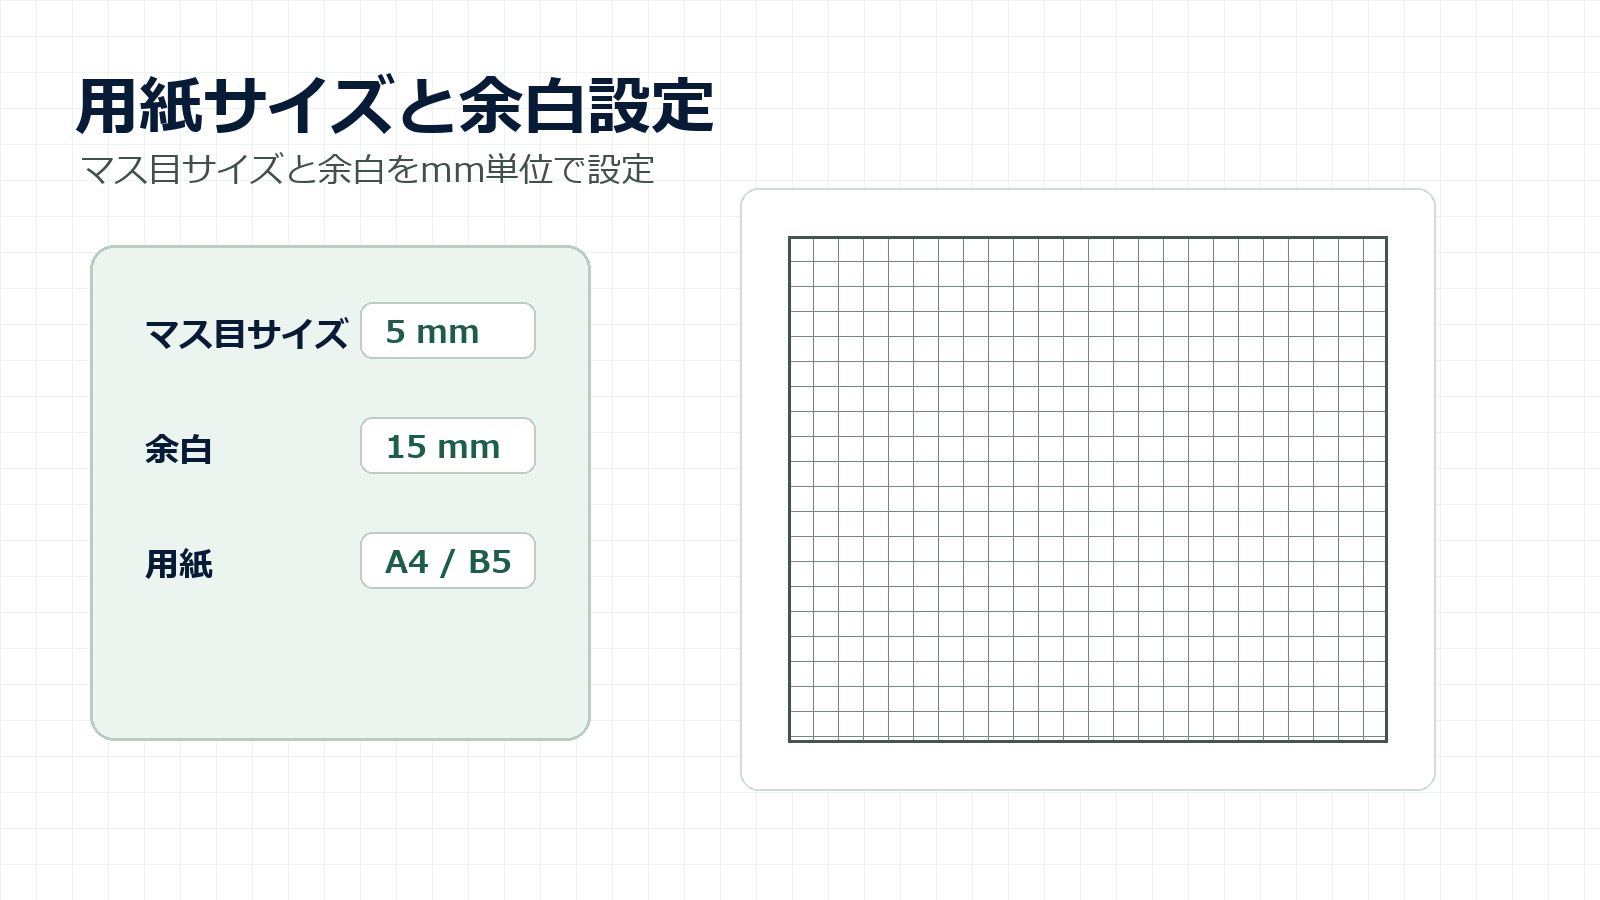
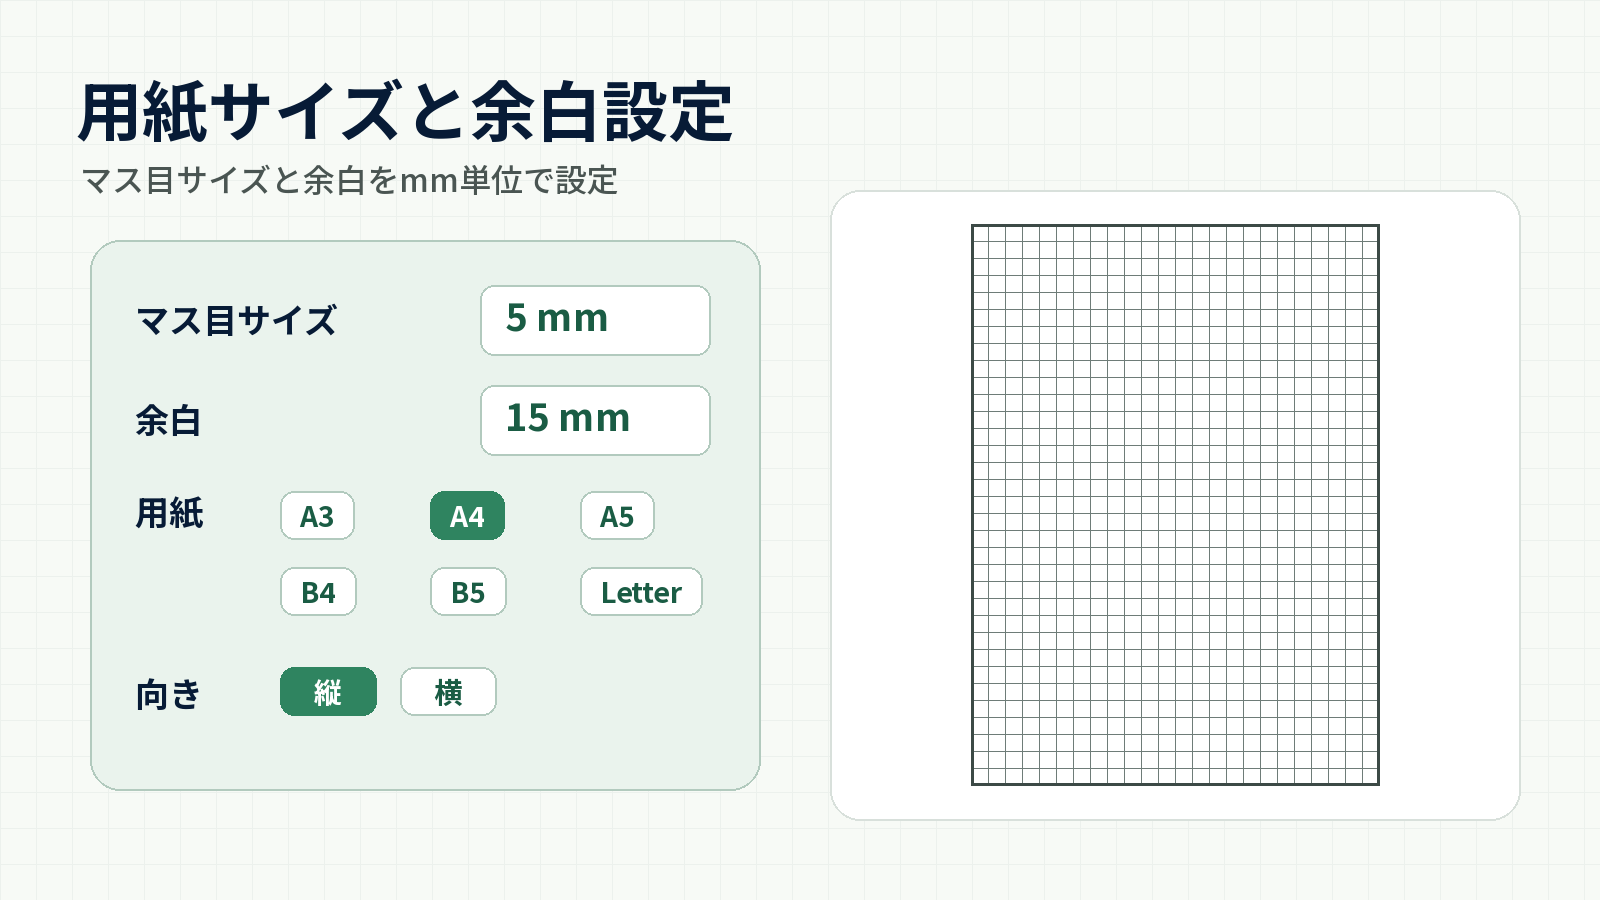
Keep GA4 tag in generated pages; refresh Graph Paper Maker images for v3.2.0
- Add tools/ga4_snippet.py and inject the GA4 tag from build_product_detail.py and
  build_products.py (regeneration used to drop it; /products/ had lost GA4 on 2026-09-29)
- Restore the GA4 tag on /products/
- Redraw houganshi images (hero, layout, line settings, card thumbnail) for the
  6 paper sizes, bold lines, center cross and axis numbers

diff --git a/products/index.html b/products/index.html
@@ -11,6 +11,46 @@
   <link href="https://fonts.googleapis.com/css2?family=Noto+Sans+JP:wght@400;600;700&family=Noto+Serif+JP:wght@400;700&display=swap" rel="stylesheet">
   <link rel="stylesheet" href="/assets/style.css?v=black-gold-20260613-featured">
   <link rel="stylesheet" href="/assets/css/audience-hubs.css?v=20260815-3">
+  <!-- Google tag (gtag.js) -->
+  <script async src="https://www.googletagmanager.com/gtag/js?id=G-KPGJ0R2KXR"></script>
+  <script>
+    (function() {
+      try {
+        var url = new URL(window.location.href);
+        var adminParam = url.searchParams.get('bantai_admin');
+        if (adminParam === 'true') {
+          localStorage.setItem('bantai_admin', 'true');
+        } else if (adminParam === 'clear') {
+          localStorage.removeItem('bantai_admin');
+        }
+
+        if (adminParam !== null) {
+          url.searchParams.delete('bantai_admin');
+          var cleanSearch = url.searchParams.toString();
+          var newUrl = url.pathname + (cleanSearch ? '?' + cleanSearch : '') + url.hash;
+          window.history.replaceState(null, '', newUrl);
+        }
+      } catch (e) {}
+
+      var isLocal = window.location.hostname === 'localhost' ||
+                    window.location.hostname === '127.0.0.1' ||
+                    window.location.protocol === 'file:';
+      var isExcluded = false;
+      try {
+        isExcluded = localStorage.getItem('bantai_admin') === 'true';
+      } catch (e) {}
+
+      if (isLocal || isExcluded) {
+        window['ga-disable-G-KPGJ0R2KXR'] = true;
+      }
+    })();
+
+    window.dataLayer = window.dataLayer || [];
+    function gtag(){dataLayer.push(arguments);}
+    gtag('js', new Date());
+    gtag('config', 'G-KPGJ0R2KXR');
+  </script>
+
   <script src="/assets/js/analytics-events.js" defer></script>
 </head>
 <body>

diff --git a/tools/ga4_snippet.py b/tools/ga4_snippet.py
@@ -1,0 +1,20 @@
+"""GA4 計測タグを、生成ページの <head> に必ず入れるためのヘルパー。
+
+テンプレート(templates/*.html)は audit_html_ga4.py の仕様で「GA4対象外」のため、
+タグはテンプレートではなく、生成スクリプトが出力直前に挿入する。
+(再生成のたびにタグが消える問題の再発防止)
+"""
+
+GA4_MARKER = "googletagmanager.com/gtag/js?id=G-KPGJ0R2KXR"
+
+GA4_SNIPPET = '  <!-- Google tag (gtag.js) -->\n  <script async src="https://www.googletagmanager.com/gtag/js?id=G-KPGJ0R2KXR"></script>\n  <script>\n    (function() {\n      try {\n        var url = new URL(window.location.href);\n        var adminParam = url.searchParams.get(\'bantai_admin\');\n        if (adminParam === \'true\') {\n          localStorage.setItem(\'bantai_admin\', \'true\');\n        } else if (adminParam === \'clear\') {\n          localStorage.removeItem(\'bantai_admin\');\n        }\n\n        if (adminParam !== null) {\n          url.searchParams.delete(\'bantai_admin\');\n          var cleanSearch = url.searchParams.toString();\n          var newUrl = url.pathname + (cleanSearch ? \'?\' + cleanSearch : \'\') + url.hash;\n          window.history.replaceState(null, \'\', newUrl);\n        }\n      } catch (e) {}\n\n      var isLocal = window.location.hostname === \'localhost\' ||\n                    window.location.hostname === \'127.0.0.1\' ||\n                    window.location.protocol === \'file:\';\n      var isExcluded = false;\n      try {\n        isExcluded = localStorage.getItem(\'bantai_admin\') === \'true\';\n      } catch (e) {}\n\n      if (isLocal || isExcluded) {\n        window[\'ga-disable-G-KPGJ0R2KXR\'] = true;\n      }\n    })();\n\n    window.dataLayer = window.dataLayer || [];\n    function gtag(){dataLayer.push(arguments);}\n    gtag(\'js\', new Date());\n    gtag(\'config\', \'G-KPGJ0R2KXR\');\n  </script>\n\n'
+
+
+def inject_ga4(html: str) -> str:
+    """GA4タグが無ければ、KARTE タグ(無ければ analytics-events.js)の直前に挿入する。"""
+    if GA4_MARKER in html:
+        return html
+    for anchor in ("  <!-- KARTE Tag -->", '  <script src="/assets/js/analytics-events.js"'):
+        if anchor in html:
+            return html.replace(anchor, GA4_SNIPPET + anchor, 1)
+    raise ValueError("GA4 タグの挿入位置が見つかりません（KARTE / analytics-events.js）")

diff --git a/tools/build_product_detail.py b/tools/build_product_detail.py
@@ -9,6 +9,8 @@ from typing import Any
 
 
 ROOT = Path(__file__).resolve().parents[1]
+from ga4_snippet import inject_ga4  # noqa: E402
+
 DATA_DIR = ROOT / "data" / "product-details"
 TEMPLATE_PATH = ROOT / "templates" / "product-detail.html"
 
@@ -1464,6 +1466,7 @@ def build(slug: str) -> Path:
         home_floating=render_home_floating(data),
         script_html=script_html,
     )
+    output = inject_ga4(output)
     path = output_path(slug)
     path.parent.mkdir(parents=True, exist_ok=True)
     path.write_text(output.rstrip() + "\n", encoding="utf-8", newline="\n")

diff --git a/tools/build_products.py b/tools/build_products.py
@@ -6,6 +6,8 @@ from html import escape
 from pathlib import Path
 from string import Template
 
+from ga4_snippet import inject_ga4
+
 
 ROOT = Path(__file__).resolve().parents[1]
 DATA_PATH = ROOT / "data" / "products.json"
@@ -214,6 +216,7 @@ def main() -> None:
         featured_cards="\n".join(featured_cards),
         standard_cards="\n".join(standard_cards),
     )
+    output = inject_ga4(output)
     OUTPUT_PATH.write_text(output.rstrip() + "\n", encoding="utf-8", newline="\n")
     print(f"Generated {OUTPUT_PATH.relative_to(ROOT)} from data/products.json")
 
